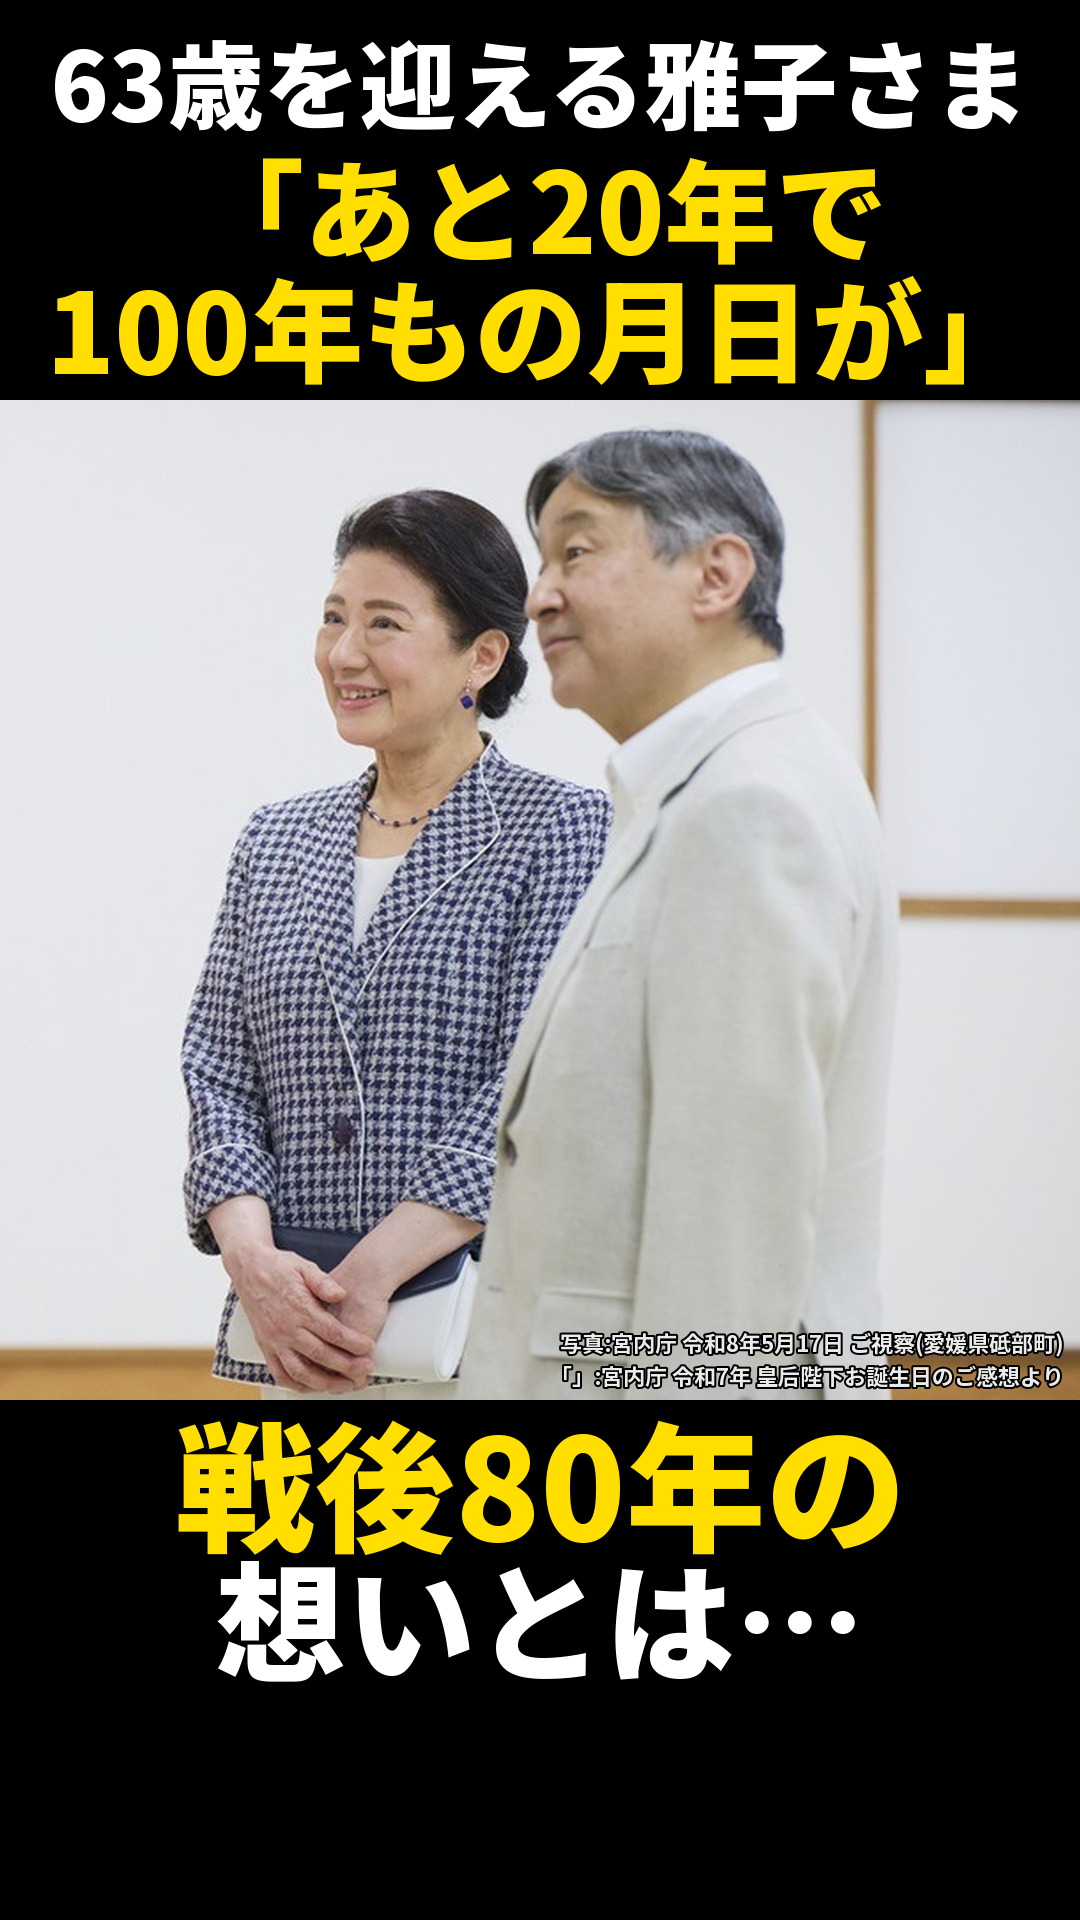
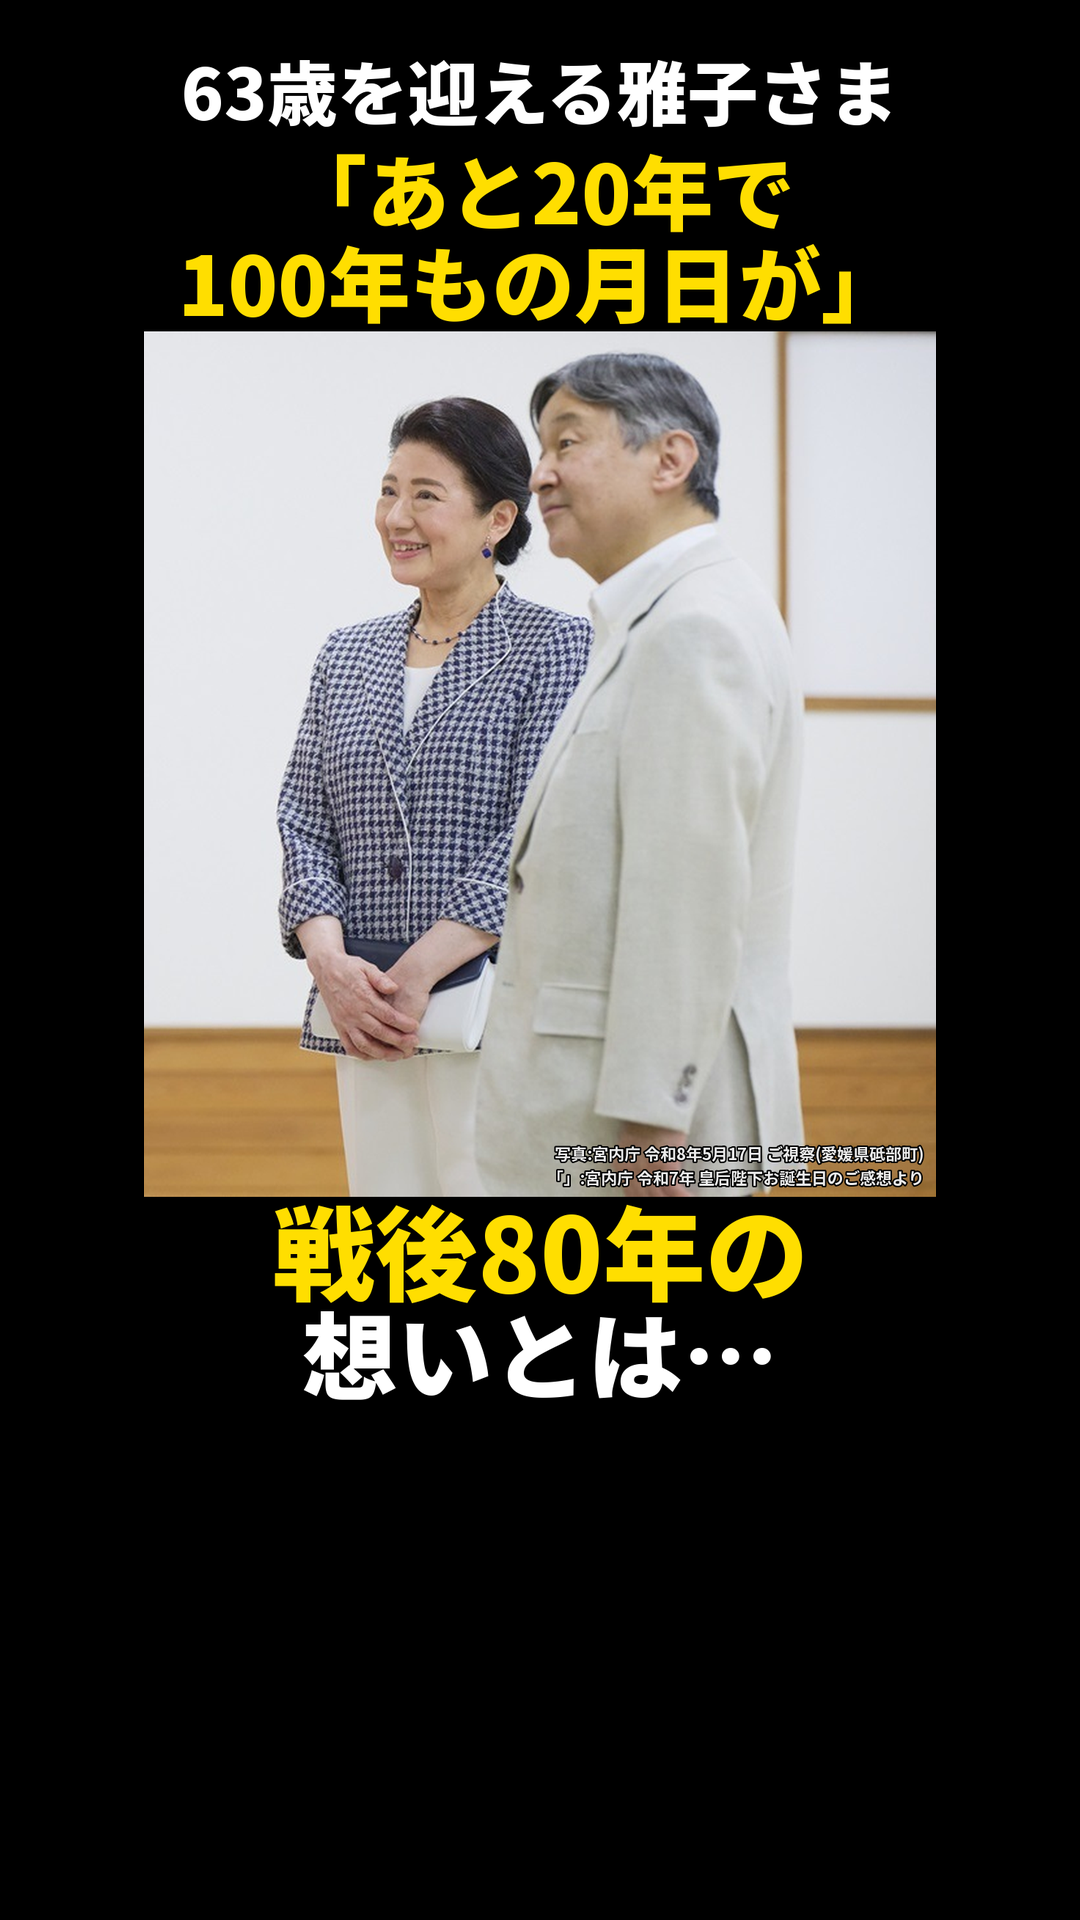
ショートのカバー2枚目: これまでのパターンBと同じ比率(中身 y60〜1400)に引き上げ
Claude-Session: https://claude.ai/code/session_01BJaPidxzmnRS1K4CmysiYX

diff --git a/projects/PLAN-20261127-DRAMA/thumb_v3/make_v3.py b/projects/PLAN-20261127-DRAMA/thumb_v3/make_v3.py
@@ -163,6 +163,17 @@ if len(sys.argv) > 1 and sys.argv[1] == "l2fonts":
     for tag, fp in [("a_mincho_noto", SERIF), ("b_dela_gothic", EX + "DelaGothicOne.ttf"), ("c_zen_old_mincho", EX + "ZenOldMincho.ttf"), ("d_kaisei_tokumin", EX + "KaiseiTokumin.ttf")]:
         L2FONT[0] = fp; L2().convert("RGB").save(f"l2_font_{tag}.png"); print(tag)
     sys.exit()
+def S_raised():
+    """カバー1と同じ画像を、これまでのショートの表紙(パターンB・上寄せ型)と同じ比率に引き上げる:
+    中身を y=60〜1400 に収め(縦横比はそのまま縮小)、1400より下は空ける。荒木指示 2026-11-28"""
+    import numpy as np
+    im = S().convert("RGB"); a = np.asarray(im.convert("L"))
+    rows = np.where(a.max(axis=1) > 30)[0]; top, bot = int(rows.min()), int(rows.max()) + 1
+    part = im.crop((0, top, 1080, bot)); k = (1400 - 60) / (bot - top)
+    part = part.resize((round(1080 * k), 1400 - 60), Image.LANCZOS)
+    out = Image.new("RGB", (1080, 1920), (0, 0, 0)); out.paste(part, ((1080 - part.width) // 2, 60))
+    return out.convert("RGBA")
+
 # 長尺のABテスト: A=明朝の型(L1)・B=見本の型(L2)・C=大写しの型(L3)。題名は ab_tests.yaml
-for n, f in [("thumb_A", L1), ("thumb_B", L2), ("thumb_C", L3), ("short_cover_1", S), ("short_cover_2_raised", lambda: S(raised=True))]:
+for n, f in [("thumb_A", L1), ("thumb_B", L2), ("thumb_C", L3), ("short_cover_1", S), ("short_cover_2_raised", S_raised)]:
     f().convert("RGB").save(n + ".png"); print(n)

diff --git a/docs/production_rules.md b/docs/production_rules.md
@@ -339,7 +339,7 @@
 3. **タイトルと表紙は3パターン（ABテスト用）：** 1本につき、**切り口がまったく違う**タイトル3案と、それぞれに合う表紙3枚を作る（例：A 強い疑問型「〜とは？」／B 数字・事実型「7回の会見で〜」／C 人物の物語型「20年前の夏、〜」）。3案は言い回しを変えただけのものにしない。どの案も事実に沿い（第1-5章）、揶揄・対立・あおりはしない（第1-2章）。`publish.yaml` の `ab_tests: [{id: A, title, thumb}, {id: B, ...}, {id: C, ...}]` に記録し、表紙は `thumb/thumb_A.png`・`thumb_B.png`・`thumb_C.png`（1280×720）に書き出す。説明文は1つ（タイトルAの文言を冒頭に使う）
 4. **表紙の型を統一する：** 伸びている皇室系チャンネル（それいけ皇室、みんなの皇室、皇室栄華など）のように、長尺の表紙は**毎回同じ型**（文字の位置・大きさ・配色・帯・ロゴの位置・写真の置き方）で作り、チャンネルとして一目で分かるようにする。型は `templates/thumb_long_template.md`（2026-11-24 第3版で確定: 明朝の極太（Noto Serif CJK JP Black）・金のグラデーション文字と金の帯・人物は1〜2名（多くても3名）を大きく・文字は短いワンフレーズ・矢印なし。型R=人物1名／型D=人物2名。長尺の表紙に限り、第5章の Noto Sans JP 指定の例外とする）に固定する。**ただしABテストの3パターンは、統一するのは「書体・金の文字・配色・クレジットの置き方」まで（チャンネルの見分け）とし、素材の写真・構図（人数・寄り引き・1枚か2枚か）・配置（人物の左右）・タイトルの位置（上・下・左の縦書きなど）は3枚で必ず変える（荒木指示 2026-11-25「構図が全部一緒ではABテストにならない」）。** 3枚を縮小して並べ、ひと目で別の表紙に見えることを確かめる。競合の表紙のデザイン・文言・ロゴはそのまま写さず、3段の型だけを取り入れる。**競合の表紙に多い作られた発言・絵文字（汗・怒りマーク・?!）・赤丸・皇族方の対立や揶揄は一切使わない**（第1-2章・第1-5章）。配色は白・黄・黒（赤は使わない）
 - **表紙・タイトルの禁止事項（荒木確認 2026-11-24・長尺も縦型も共通）：** ①作られた発言（公式記録にない「」の台詞。例「ご不満なら出ていってくれ！」）②写真の人物の表情に付けた汗・怒りマーク・?!などの絵文字や、作り台詞の吹き出し ③赤丸・赤矢印・赤文字など赤の装飾 ④皇族方の対立や揶揄（例「〜に制裁」「ポンコツ」「大暴露」「一方、〜は」で皇族方を比べて落とす言い方）。1つでもあれば不合格とし、作り直す
-4-2. **長尺のABテストの3つの型（荒木決定 2026-11-28・今後の長尺はすべてこの型）：** 見本 projects/PLAN-20261127-DRAMA/thumb_v3/（作り方 make_v3.py、題名 ab_tests.yaml）。**A＝明朝の型**（行事の写真2枚を左右に並べ、下に極太明朝の2段 白・黄。切り口は数字・事実型）／**B＝見本の型**（上の黒い帯に白の「」、皇族方を左右2枚に分けてお顔を画面の高さの約4割に、下に極太ゴシックを横に詰めた2段 水色・ピンク。荒木さん指定の見本＝JAPANマインドの表紙の書体と文字・お顔の大きさ。切り口は強い疑問型）／**C＝大写しの型**（皇族方を1枚で大きく、下に極太ゴシックの3段 水色・白・黄、最大の8割の大きさ。切り口は人物の物語型）。題名は3案とも切り口を変え、**表紙の文字はすべてその題名の言葉から取る**。写真は3案で別のものにし、行事・ご公務の一場面を使う（ご近影ばかりにしない）。飾り・AIの背景は使わない。ショートのカバーは、黒い帯の型と、同じ内容を全体に上へ引き上げた版（下の約230pxを空ける）の2枚を作る。
+4-2. **長尺のABテストの3つの型（荒木決定 2026-11-28・今後の長尺はすべてこの型）：** 見本 projects/PLAN-20261127-DRAMA/thumb_v3/（作り方 make_v3.py、題名 ab_tests.yaml）。**A＝明朝の型**（行事の写真2枚を左右に並べ、下に極太明朝の2段 白・黄。切り口は数字・事実型）／**B＝見本の型**（上の黒い帯に白の「」、皇族方を左右2枚に分けてお顔を画面の高さの約4割に、下に極太ゴシックを横に詰めた2段 水色・ピンク。荒木さん指定の見本＝JAPANマインドの表紙の書体と文字・お顔の大きさ。切り口は強い疑問型）／**C＝大写しの型**（皇族方を1枚で大きく、下に極太ゴシックの3段 水色・白・黄、最大の8割の大きさ。切り口は人物の物語型）。題名は3案とも切り口を変え、**表紙の文字はすべてその題名の言葉から取る**。写真は3案で別のものにし、行事・ご公務の一場面を使う（ご近影ばかりにしない）。飾り・AIの背景は使わない。ショートのカバーは、黒い帯の型と、同じ内容を全体に上へ引き上げた版（これまでのショートの表紙・パターンBと同じ比率: 中身を y60〜1400 に縦横比そのままで収め、1400より下は空ける）の2枚を作る。
 5. **表紙の写真はタイトルに沿って選ぶ：** 各パターンの中心画像は、そのタイトルが語っている人物・瞬間・物が写っている写真にする（第4-3章と同じ考え方）。3パターンで同じ写真を使わない。顔の加工・AI生成はしない（切り抜き・拡大縮小のみ）
 
 ### 5-3．長尺の企画・構成・表紙の追加ルール【荒木採用 2026-11-24・競合の深掘り調査 docs/research/2026-11-24_long_competitors_deep.md より】
